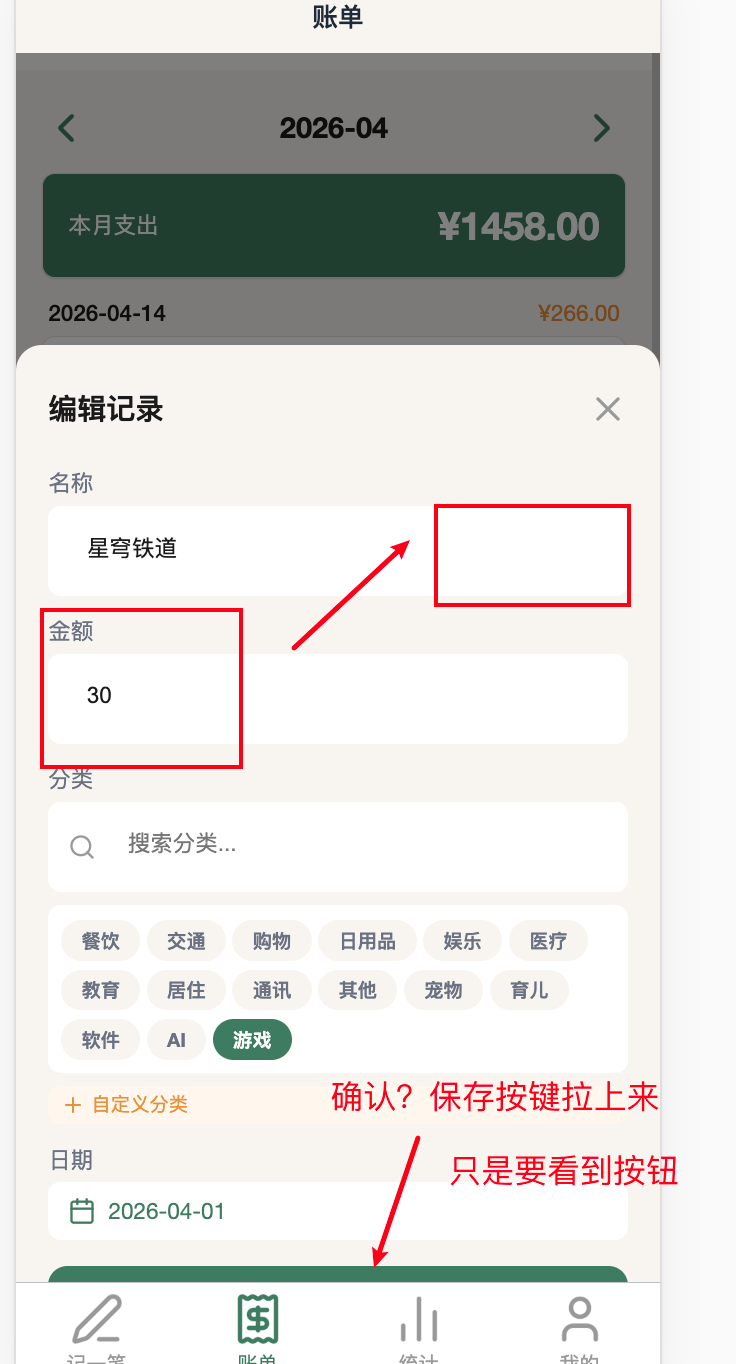
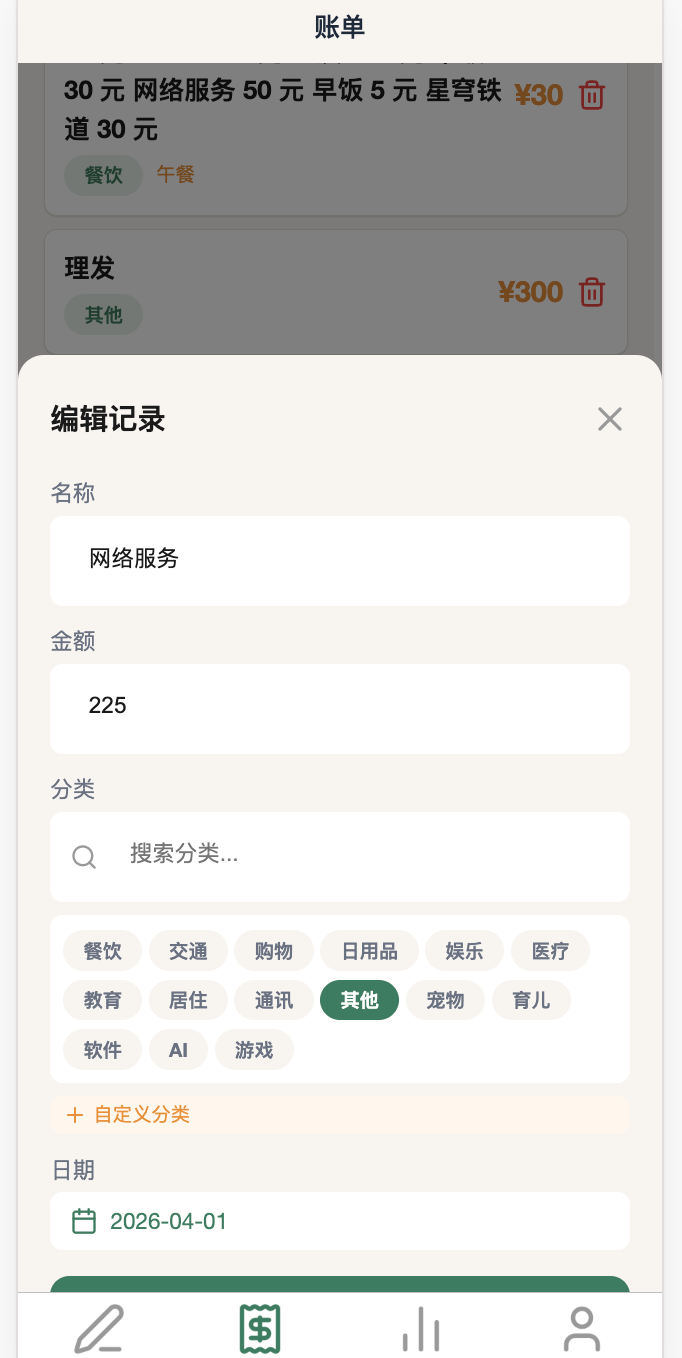
fix: 底部确认按钮上移避开TabBar + 加大内容区底部间距
- 底部固定按钮 bottom: 0 → bottom: 50，避开小程序 TabBar
- 解析结果区域底部间距 pb-28 → pb-36，确保最后一条不被按钮遮挡
- 重启 dev 服务确保热更新生效

diff --git a/src/pages/index/index.tsx b/src/pages/index/index.tsx
@@ -231,7 +231,7 @@ const IndexPage = () => {
 
         {/* Parsed Results */}
         {parsedResults.length > 0 && (
-          <View className="px-4 mt-4 pb-28">
+          <View className="px-4 mt-4 pb-36">
             <View className="flex flex-row items-center justify-between mb-2">
               <View className="flex flex-row items-center gap-2">
                 <PenLine size={16} color="#3D7C5F" />
@@ -379,7 +379,7 @@ const IndexPage = () => {
       {parsedResults.length > 0 && (
         <View
           style={{
-            position: 'fixed', bottom: 0, left: 0, right: 0,
+            position: 'fixed', bottom: 50, left: 0, right: 0,
             display: 'flex', flexDirection: 'row', gap: '12px',
             padding: '12px 16px', backgroundColor: '#F7F5F0',
             borderTop: '1px solid #E5E1D8', zIndex: 100,
